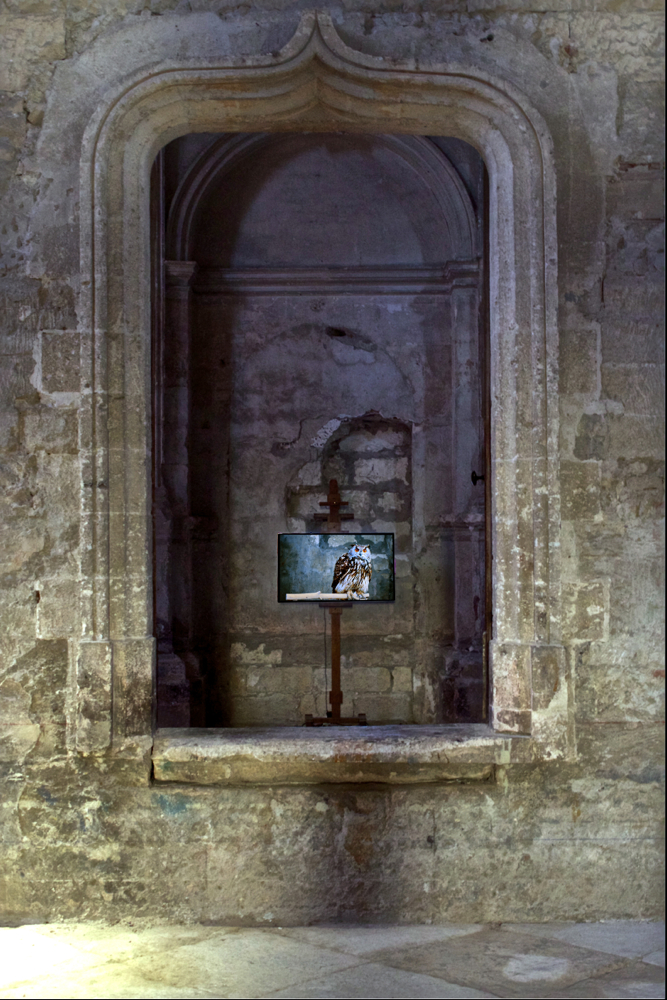
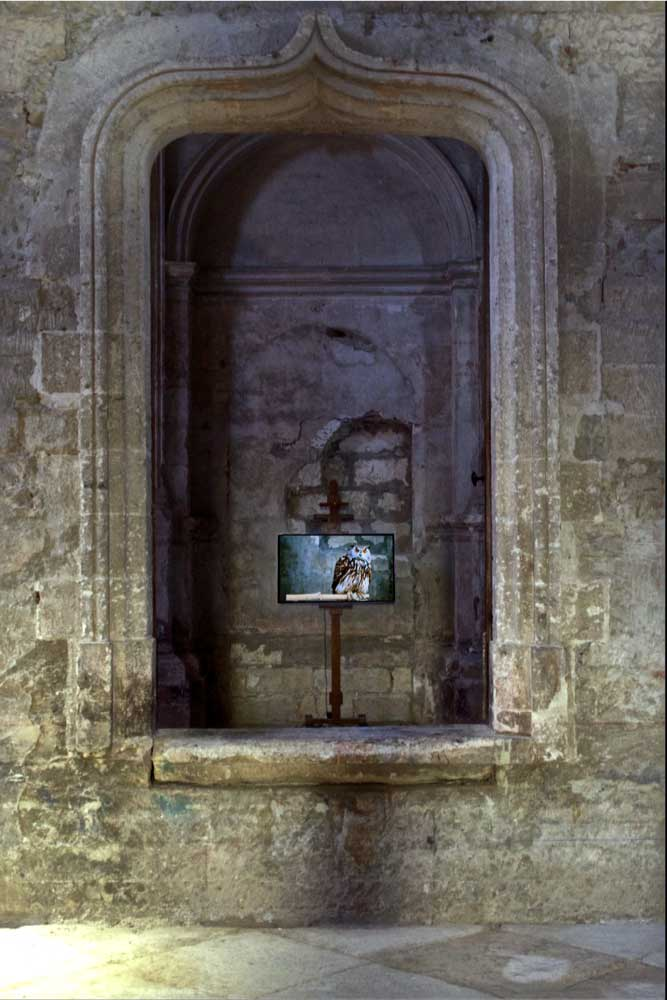
reducing images sizes

diff --git a/index.html b/index.html
@@ -1440,7 +1440,7 @@
                                 class="imgSize" alt="tristan_alexandre_art_bubo_installation_interactive">
                         </div>
                         <div class="carousel-item">
-                            <img src="CSS/Images/tristan_alexandre_art_bubo_installation_interactive_hiboux.png"
+                            <img src="CSS/Images/tristan_alexandre_art_bubo_installation_interactive_hiboux.jpg"
                                 class="imgSize" alt="tristan_alexandre_art_bubo_installation_interactive_hiboux">
                         </div>
                         <div class="carousel-item">
